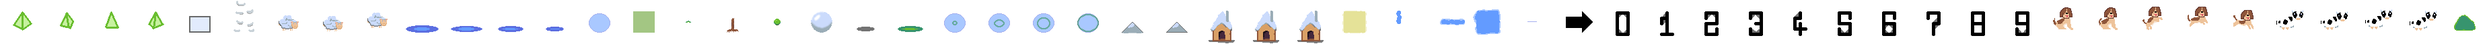
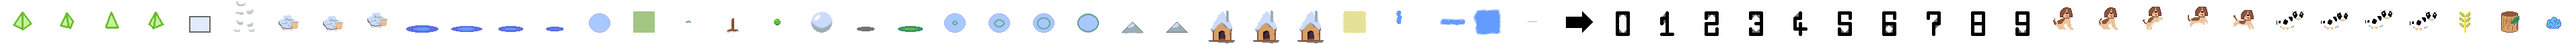
WIP

Changed region(s): [[0.0, 0.1515, 0.9957, 0.9697], [0.0933, 0.0909, 0.1245, 0.1212]]

diff --git a/demo3/src/game-object.ts b/demo3/src/game-object.ts
@@ -1,4 +1,4 @@
-import { Color, drawTextScreen, EngineObject, mouseIsDown, mousePos, mouseWasPressed, mouseWasReleased, randColor, TileInfo, vec2, Vector2 } from "littlejsengine";
+import { Color, EngineObject, mousePos, mouseWasPressed, mouseWasReleased, randColor, vec2, Vector2 } from "littlejsengine";
 import type { Elem } from "./definition/elem";
 import type { Manager } from "./manager";
 import type { AnimationInfo } from "./animation/animation-manager";
@@ -26,6 +26,7 @@ export class GameObject extends EngineObject {
   lastDx: number = 1;
   bornTime: number = Date.now();
   moveQueue?: Vector2[];
+  resources: EngineObject[] = [];
 
   constructor(public manager: Manager, private gridShift: Vector2 = vec2(0, 0)) {
     super();
@@ -150,7 +151,8 @@ export class GameObject extends EngineObject {
           }
         }
       }
-      this.refreshLevel();
+      this.refreshLabel();
+      this.refreshResources();
     } else {
       if (this.manager.grid[this.getTag()] === this) {
         delete this.manager.grid[this.getTag()];
@@ -162,14 +164,18 @@ export class GameObject extends EngineObject {
     }
   }
 
-  refreshLevel() {
-    if (!this.elem?.level) {
+  private refreshLabel() {
+    let numToShow = this.elem?.level ?? this.elem?.hitpoints;
+    if (!numToShow) {
       return;
     }
+    const size = this.elem?.level ? .5 : .3;
+    const offset = this.elem?.level ? vec2(0, 0) : vec2(-.5, .2);
+    const charSize = this.elem?.level ? .2 : .15;
     if (!this.labels) {
       this.labels = [];
     }
-    let l = this.elem.level;
+    let l = numToShow;
     for (let i = 0; l > 0 || i < this.labels.length; i++) {
       if (!l) {
         if (this.labels[i]) {
@@ -179,15 +185,31 @@ export class GameObject extends EngineObject {
         const d = l % 10;
         if (!this.labels[i]) {
           this.labels[i] = new EngineObject(vec2(0, 0), vec2(.5, .5));
-          this.addChild(this.labels[i], vec2(-.5 + -i * .2, 0));
+          this.addChild(this.labels[i], offset.add(vec2(-i * charSize, 0)));
         }
         const digit = this.labels[i];
         digit.tileInfo = this.getTileInfoAnimate(this.manager.animation.getInfo(`num_${d}`));
-        digit.size.set(.5, .5);
+        digit.size.set(size, size);
         l = Math.floor(l / 10);
       }
     }
     this.labels.forEach(label => label.renderOrder = this.renderOrder + .2);
+  }
+
+  private refreshResources() {
+    const resources = this.elem?.resources;
+    if (!resources) {
+      return;
+    }
+    this.resources.forEach(resource => resource.destroy());
+    this.resources.length = 0;
+    for (let i = 0; i < (this.elem?.resources?.wheat ?? 0); i++) {
+      
+    }
+    for (let i = 0; i < (this.elem?.resources?.wood ?? 0); i++) {
+    }
+    for (let i = 0; i < (this.elem?.resources?.brain ?? 0); i++) {
+    }
   }
 
   private getTag() {

diff --git a/demo3/src/content/world.ts b/demo3/src/content/world.ts
@@ -24,6 +24,7 @@ export const worldData: Scene = {
     {
       name: "sheep",
       type: "unit",
+      hitpoints: 10,
       gameObject: {
         pos: [0, 0] as [number, number],
         size: [1.8, 1.8] as [number, number],
@@ -59,6 +60,7 @@ export const worldData: Scene = {
     {
       name: "dog",
       type: "unit",
+      hitpoints: 10,
       gameObject: {
         size: [1.8, 1.8] as [number, number],
         speed: 0.08,
@@ -94,6 +96,7 @@ export const worldData: Scene = {
     {
       name: "cow",
       type: "unit",
+      hitpoints: 15,
       gameObject: {
         size: [1.8, 1.8] as [number, number],
         speed: 0.05,
@@ -354,6 +357,30 @@ export const worldData: Scene = {
         51, 53, 54,
       ],
       airFrames: [54],
+    },
+    {
+      name: "wheat",
+      imageSource: "./assets/tiles.png",
+      spriteSize: [64, 64] as [number, number],
+      frames: [
+        55,
+      ],
+    },
+    {
+      name: "wood",
+      imageSource: "./assets/tiles.png",
+      spriteSize: [64, 64] as [number, number],
+      frames: [
+        56,
+      ],
+    },
+    {
+      name: "brain",
+      imageSource: "./assets/tiles.png",
+      spriteSize: [64, 64] as [number, number],
+      frames: [
+        57,
+      ],
     },
   ],
   elems: [

diff --git a/demo3/src/hud.ts b/demo3/src/hud.ts
@@ -57,6 +57,19 @@ export class Hud {
 
     const endButton = this.overlay.appendChild(document.createElement("button"));
     endButton.textContent = "End turn";
+
+    const autoEndGroup = endButton.appendChild(document.createElement("div"));
+    const label = autoEndGroup.appendChild(document.createElement("label"));
+    label.textContent = "auto";
+    label.style.textTransform = "lowercase";
+    label.htmlFor = "autoEndCheck";
+    const autoEndCheck = autoEndGroup.appendChild(document.createElement("input"));
+    autoEndCheck.id = "autoEndCheck";
+    autoEndCheck.type = "checkbox";
+    autoEndCheck.checked = false
+    autoEndCheck.addEventListener("change", e => {
+      this.manager.scene.autoEnd = autoEndCheck.checked;
+    });
   }
 
   clear() {
@@ -178,7 +191,7 @@ export class Hud {
               }
               if (action.level && obj.elem) {
                 obj.elem.level = (obj.elem.level ?? 0) + action.level;
-                obj.refreshLevel();
+                obj.refreshLabel();
               }
             });
 

diff --git a/demo3/src/definition/elem.ts b/demo3/src/definition/elem.ts
@@ -4,6 +4,7 @@ export interface Elem {
   name?: string;
   type?: string;
   level?: number;
+  hitpoints?: number;
   owner?: number;
   group?: {
     grid?: [number, number];
@@ -62,6 +63,11 @@ export interface Elem {
   mouseFollower?: {
     offset?: [number, number];
     snap?: number;
+  };
+  resources?: {
+    wheat?: number;
+    wood?: number;
+    brain?: number;
   };
   dynamic?: boolean;
   clearCloud?: boolean;

diff --git a/demo3/src/definition/scene.ts b/demo3/src/definition/scene.ts
@@ -10,4 +10,5 @@ export interface Scene {
   layers?: Record<string, number>;
   colayers?: Record<string, number>;
   menu?: Menu[];
+  autoEnd?: boolean;
 }
